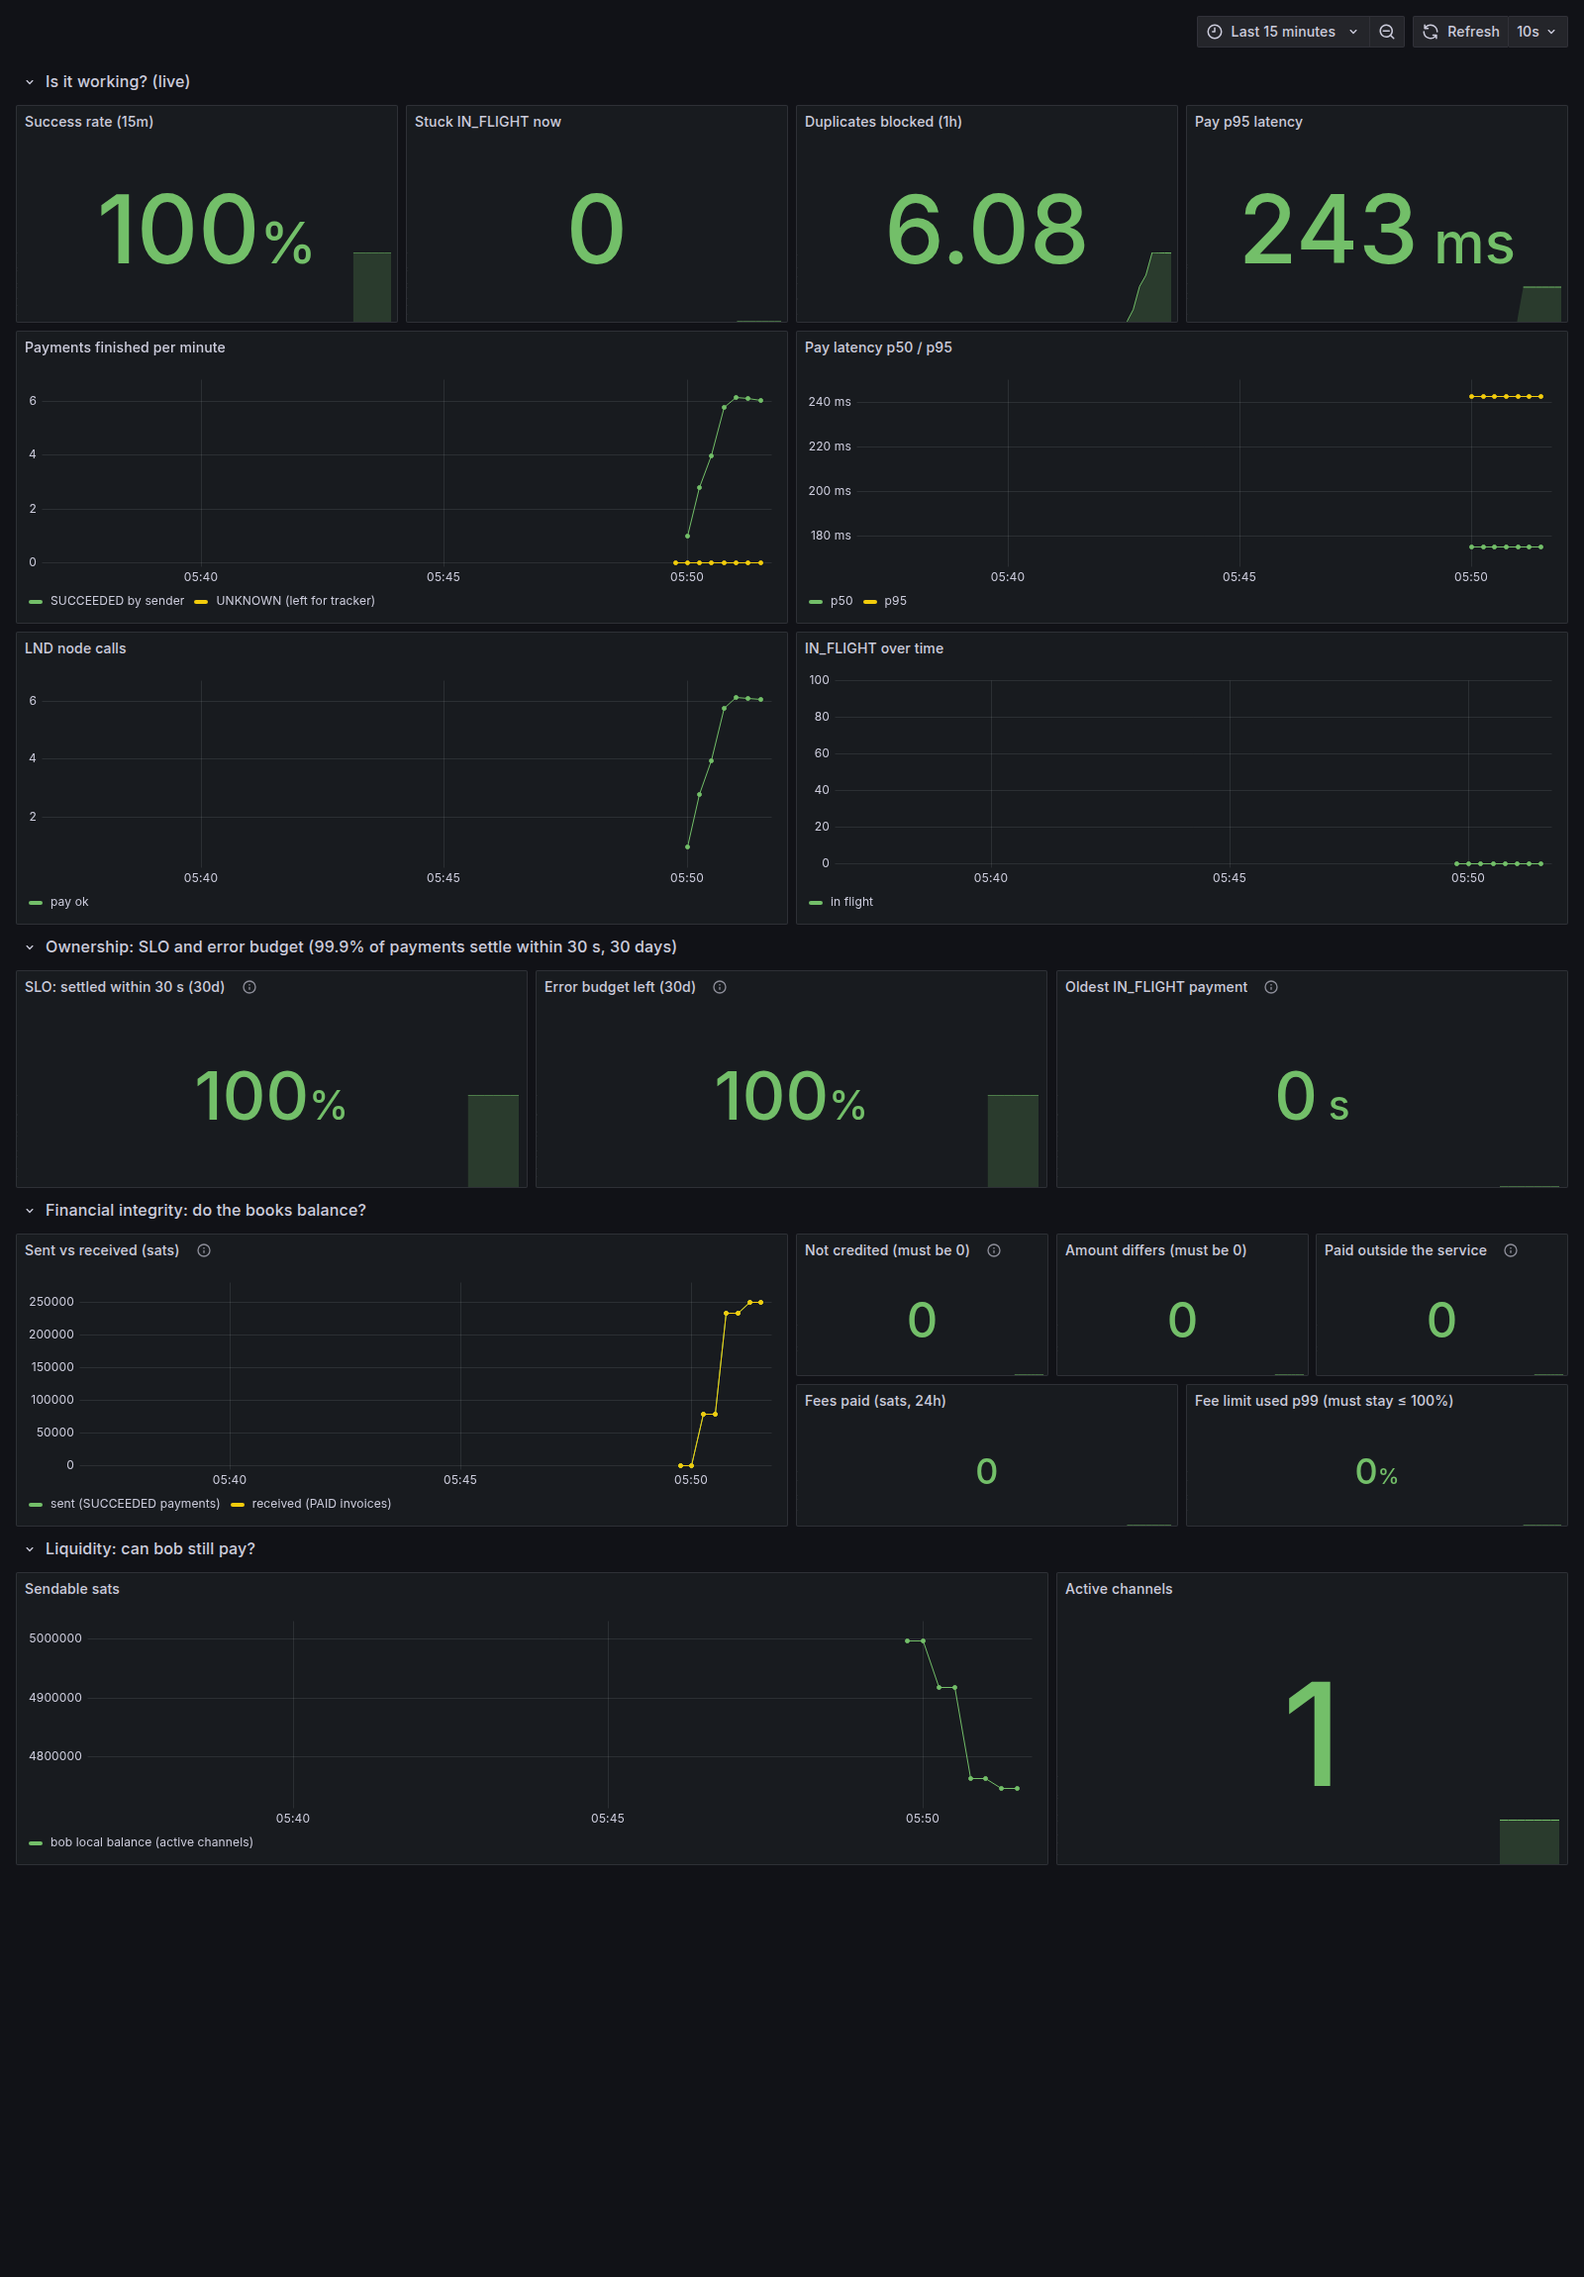
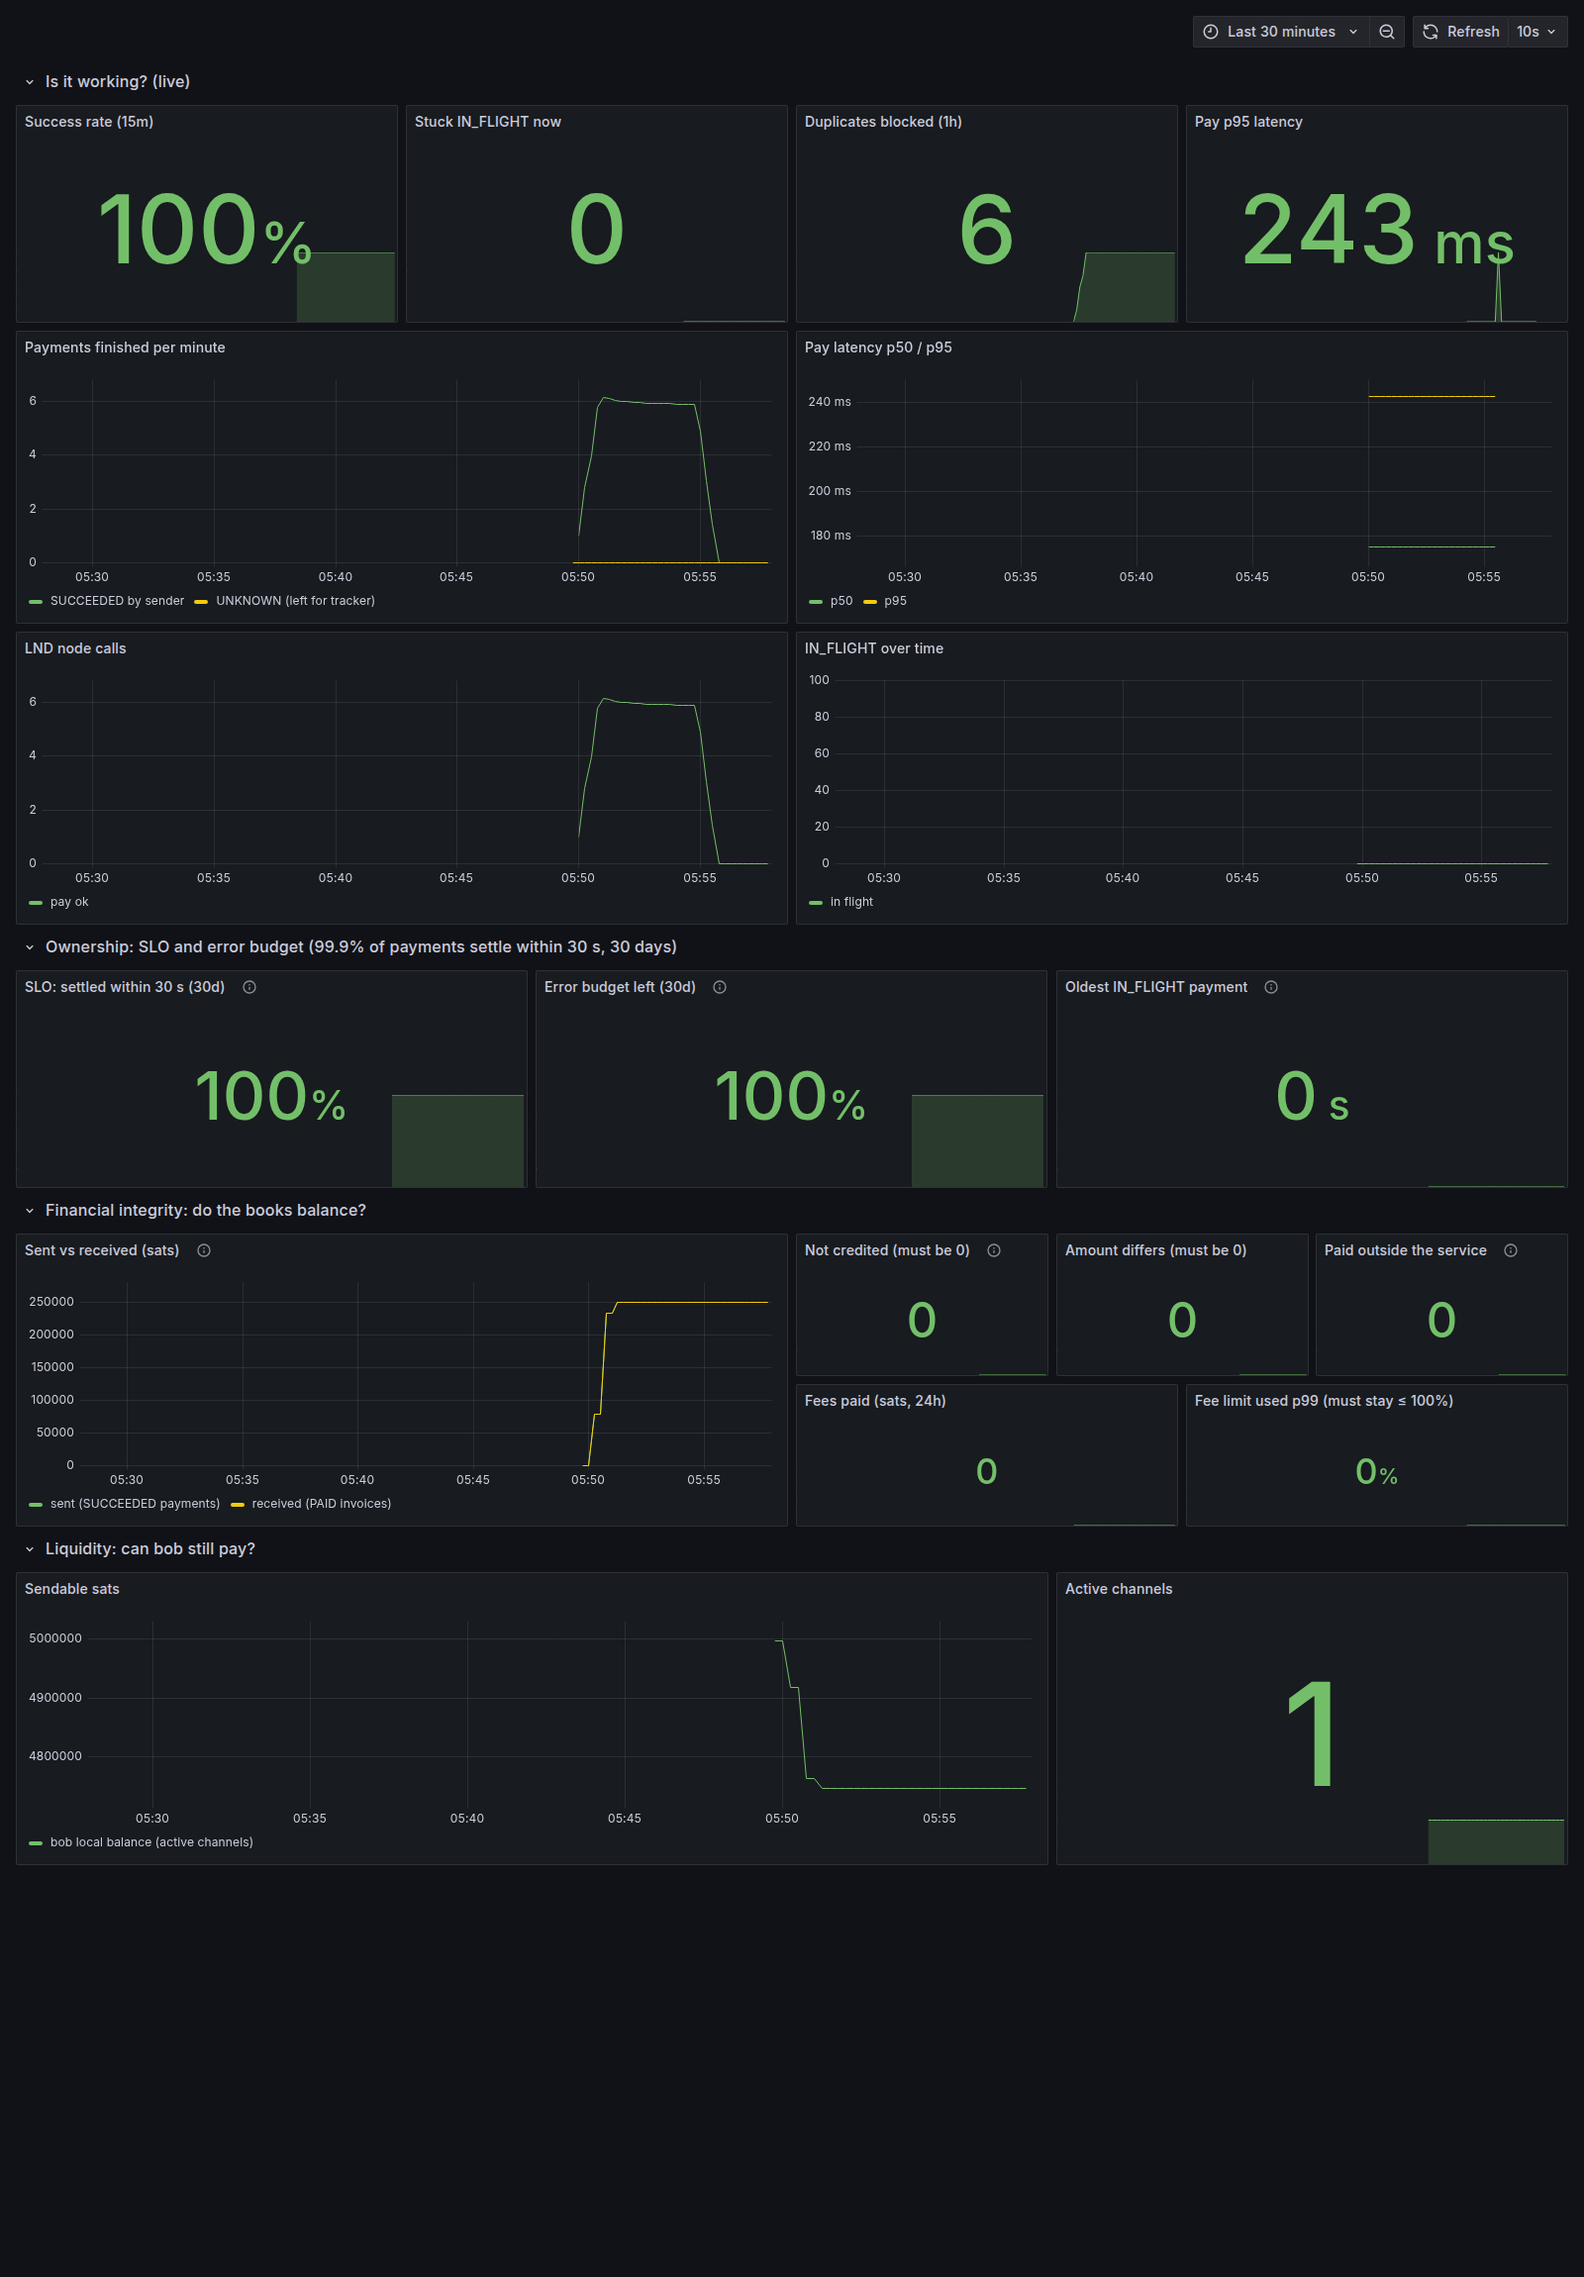
README: results of the regtest run with Prometheus and Grafana screenshots

diff --git a/README.md b/README.md
@@ -207,7 +207,32 @@ The server serves Prometheus metrics on `127.0.0.1:9101/metrics` (set `METRICS_A
 
 The dashboard has four rows: is it working, ownership (SLO: 99.9% of payments settle within 30 s, error budget, oldest stuck payment), financial integrity (reconciliation, fees) and liquidity. `alerts.yml` adds books-do-not-reconcile, low liquidity and a fast SLO burn alert.
 
+### Run on a real regtest network
+
+Run on 13 Nov 2026: bitcoind and two LND nodes started by `scripts/regtest-local.sh`, 30 payments from bob to alice through the API, and 6 double-pay attempts. Prometheus scraped the service every 5 seconds and Grafana drew the dashboard.
+
+| What | Result |
+|---|---|
+| Payments | 30 of 30 SUCCEEDED, p95 time for the Pay call about 240 ms |
+| Double payments | 6 attempts, 6 refused with 409 |
+| Books | 250,000 sats sent = 250,000 received; 0 not credited, 0 amount differences |
+| Liquidity | bob's sendable balance fell from 5.0M to 4.75M sats |
+| Alerts | all 5 rules loaded, none firing |
+
 ![Grafana dashboard after 30 regtest payments](docs/img/grafana-dashboard.png)
+
+Prometheus found the service (`lnpay` target UP):
+
+![Prometheus target UP](docs/img/prometheus-targets.png)
+
+The payment counter as Prometheus stores it:
+
+![Prometheus query lnpay_payments_finished_total](docs/img/prometheus-query.png)
+
+The alert rules loaded and inactive:
+
+![Prometheus alert rules](docs/img/prometheus-alerts.png)
+
 
 To run the whole thing without Docker or Polar: `BIN=<folder with bitcoind, lnd> scripts/regtest-local.sh up` starts bitcoind and two LND nodes and opens a bob → alice channel.
 
